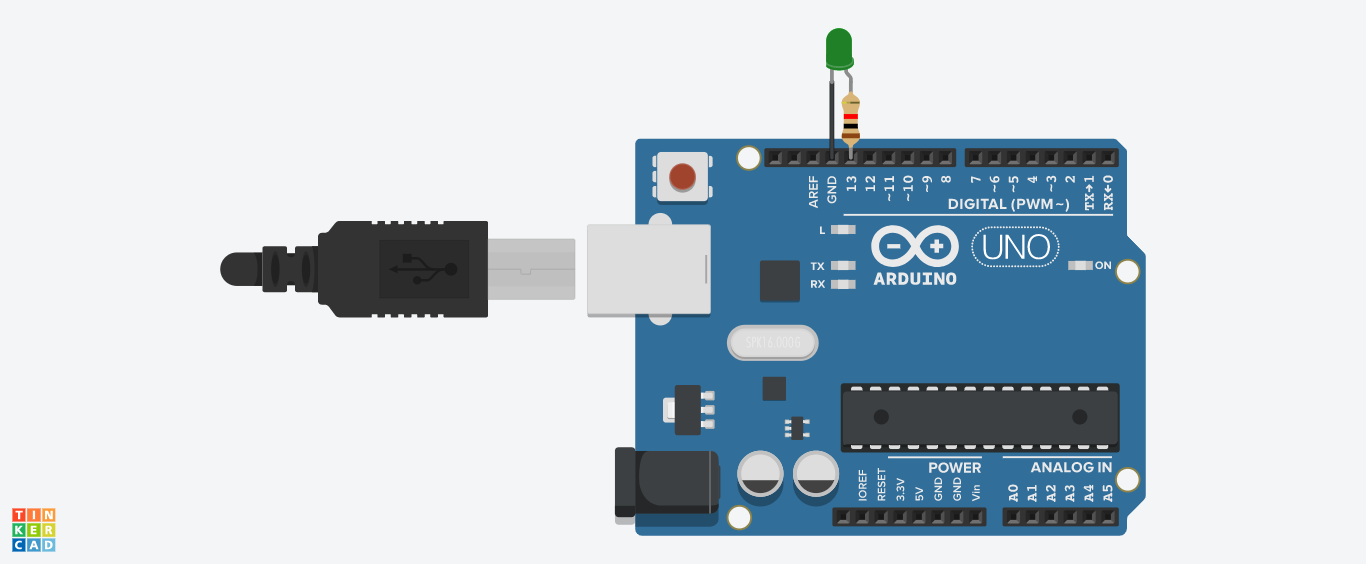
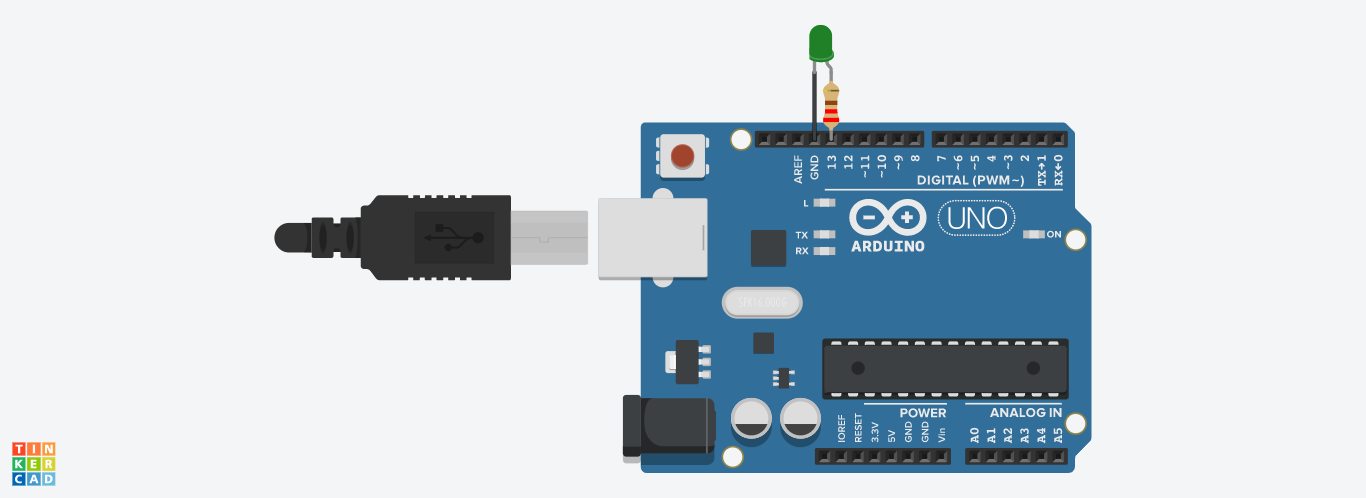
Ejercicios Tinkercad

diff --git a/Tinkercad.md b/Tinkercad.md
@@ -31,4 +31,4 @@ Para poder comenzar a trabajar con la herramienta, será necesario registrarse d
 
 El primer ejercicio super tradicional, y con el cual ya hemos trabajado en las primeras pruebas físicas con el Arduino UNO, es el parpadeo de un led. El UNO, como la mayoría de las placas de desarrollo actuales, incluye ya un led conectado a uno de sus pines, algo cómodo para pruebas. Precisamente es éste led el que hemos estado utilizando, unido al pin digital 13, pero obviamente podemos conectar también un led externo a ese mismo pin, o a cualquier otro de los digitales que tengamos disponible.
 
-<p>Agregar un Arduino UNO, un led y una resistencia, conectándolos según el siguiente esquema: <img src="/ejercicios/tinkercad_ej01.png" style="width: 400px;"></</p>
+<p>Agregar un Arduino UNO, un led y una resistencia, conectándolos según el siguiente esquema: <img src="/ejercicios/tinkercad_ej01.png" width="300"></</p>
